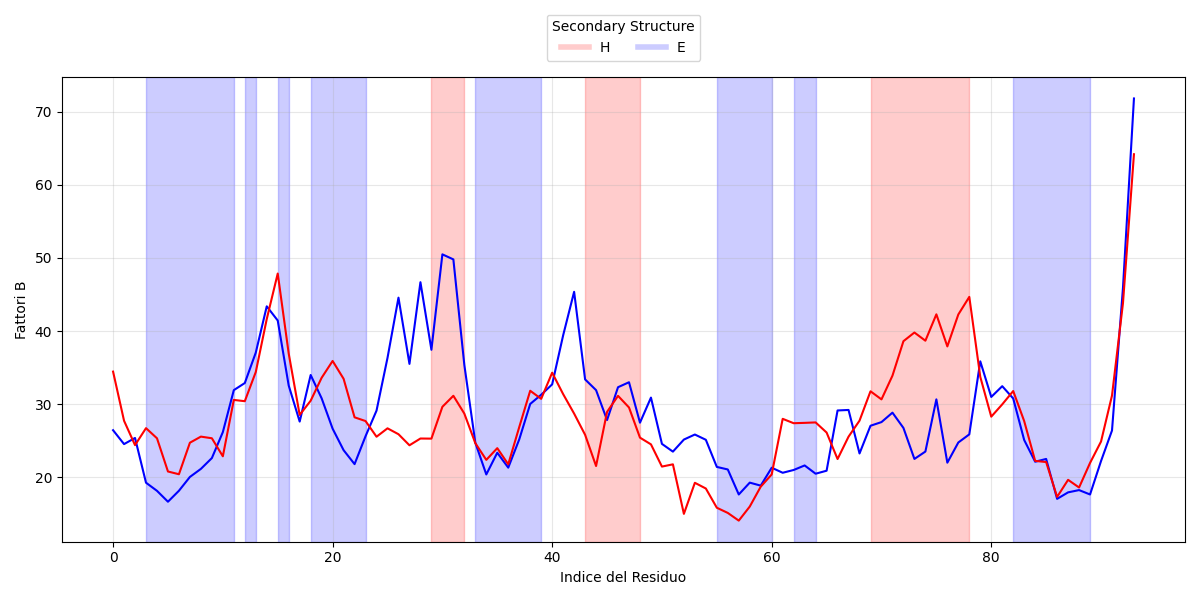
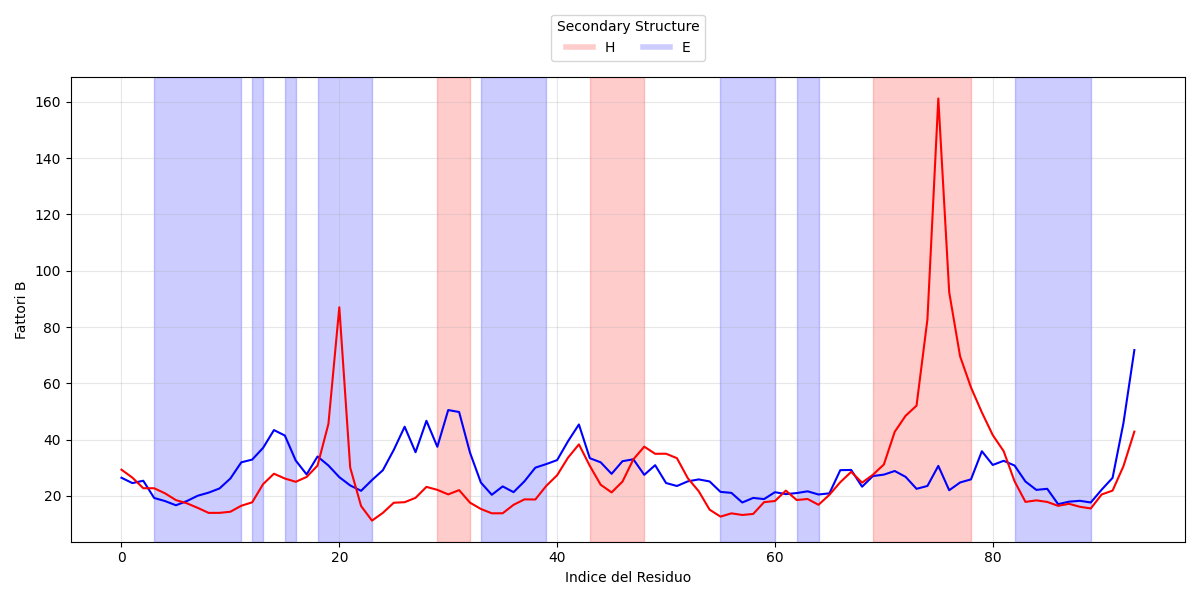
adnj

diff --git a/STATIC/Dynamic.py b/STATIC/Dynamic.py
@@ -19,22 +19,22 @@ def stochastic_process_1d(K, epsilon_0, omega, dt, T, k_b, gamma, MaxTime, N):
     epsilon= np.zeros((len(t), N))
     p=0
     for n in range(1, len(t)):
-        epsilon_t = epsilon_0 * (1 + np.cos(omega * t[n])) / 2
+        epsilon_t = epsilon_0 * (1 - np.cos(omega * t[n])) / 2
         if epsilon_t==0:
             p+=1
             print(p)
-        #if epsilon_t<=0.0001 and epsilon_t>=-0.0001:
-        #    print("periodo")
+        if epsilon_t<=0.0001 and epsilon_t>=-0.0001:
+            print("periodo")
         
 
         dH_dr = np.zeros(N)
         for i in range(N):
             dH_dr[i] = np.sum(K[i, :] * r)
             if i == 20:  # index 20 corresponds to residue 21
-                dH_dr[i] += 2 * epsilon_t * (r[20] - r[75])
+                dH_dr[i] += 2 * epsilon_t #* (r[20] - r[75])
             elif i == 75:  # index 75 corresponds to residue 76
-                dH_dr[i] -= 2 * epsilon_t * (r[20] - r[75])
-        
+                dH_dr[i] -= 2 * epsilon_t #* (r[20] - r[75])
+
         eta = np.random.normal(0, 1, N)
         r = r - dH_dr * dt + np.sqrt(2 * k_b * T * gamma * dt) * eta
         r_history[n] = r
@@ -74,7 +74,7 @@ positions = df[['X', 'Y', 'Z']].values
 # Example usage:
 N = positions.shape[0]  # number of residues
 K = kirchhoff_matrix
-epsilon_0 =0.1
+epsilon_0 =10#0.1
 omega = 2*np.pi
 dt = 0.01
 T = 1
@@ -88,7 +88,7 @@ time_avg_x_squared = calculate_time_average_x_squared(r_history)
 residue1_trajectory = r_history[:, 20]
 residue2_trajectory = r_history[:, 75]
 
-
+#epsilon=epsilon[:int(len(epsilon)*0.3)]
 # Calcola la media di ogni traiettoria
 mean1 = np.mean(epsilon)
 mean2 = np.mean(epsilon)
@@ -101,8 +101,8 @@ residue2_trajectory -= mean2
 correlation = np.zeros_like(epsilon)
 
 # Calcola la correlazione
-for i in range(len(epsilon)):
-    for j in range(len(epsilon) - i):
+for i in range(int(len(epsilon))):
+    for j in range(int(len(epsilon)) - i):
         correlation[i] += epsilon[j] * epsilon[i + j]
 
 # Normalizza la correlazione per avere valori tra -1 e 1
@@ -126,7 +126,7 @@ def compare_b_factors_with_sec_structure(actual_b_factors, predicted_b_factors, 
     predicted_b_factors_scaled = predicted_b_factors * scale_factor
 
     # Calcola il coefficiente di correlazione
-    correlation, _ = pearsonr(actual_b_factors, predicted_b_factors_scaled)
+    #correlation, _ = pearsonr(actual_b_factors, predicted_b_factors_scaled)
 
     # Calcola la deviazione quadratica media (RMSD)
     rmsd = np.sqrt(np.mean((actual_b_factors - predicted_b_factors_scaled)**2))
@@ -199,7 +199,7 @@ def compare_b_factors_with_sec_structure(actual_b_factors, predicted_b_factors, 
     # Salva la figura
     plt.savefig(f'images/{name}/dynamic/Confronto_Beta_con_Struttura_Secondaria.png')
 
-    print(f"Coefficiente di correlazione tra fattori B reali e predetti: {correlation:.4f}")
+    #print(f"Coefficiente di correlazione tra fattori B reali e predetti: {correlation:.4f}")
     print(f"Deviazione Quadratica Media (RMSD): {rmsd:.4f}")
 
     return correlation, rmsd
@@ -209,10 +209,55 @@ def compare_b_factors_with_sec_structure(actual_b_factors, predicted_b_factors, 
 correlation,rmsd=compare_b_factors_with_sec_structure(df['B-Factor'].values, time_avg_x_squared, df, stringa)
 
 
+import numpy as np
+import matplotlib.pyplot as plt
 
+# Estrai le traiettorie dei due residui
+residue1_trajectory = r_history[:, 20]
+residue2_trajectory = r_history[:, 75]
 
+# Calcola la media di ogni traiettoria
+mean1 = np.mean(residue1_trajectory)
+mean2 = np.mean(residue2_trajectory)
 
+# Sottrai la media da ogni traiettoria
+residue1_trajectory -= mean1
+residue2_trajectory -= mean2
 
+# Inizializza un array vuoto per la covarianza
+covariance = np.zeros_like(residue1_trajectory)
+
+# Calcola la covarianza
+for i in range(len(residue1_trajectory)):
+    for j in range(len(residue2_trajectory) - i):
+        covariance[i] += residue1_trajectory[j] * residue2_trajectory[i + j]
+
+# Normalizza la covarianza per avere valori tra -1 e 1
+covariance = covariance / (len(residue1_trajectory) - 1)
+
+# Crea un array di tempi
+time = np.arange(len(residue1_trajectory))
+
+# Calcola 1-cos(2*pi*t)
+cos_func = 1 - np.cos(2 * np.pi * time*dt)
+
+# Plotta la covarianza
+plt.figure(figsize=(12, 6))
+plt.plot(covariance, label='Covariance')
+
+plt.xlabel('Time Lag')
+#plt.plot(cos_func, label='1-cos(2*pi*t)')
+plt.xlabel('Time Lag')
+plt.ylabel('Value')
+plt.title('Covariance between Residue 21 and Residue 76 and 1-cos(2*pi*t)')
+plt.legend()
+plt.tight_layout()
+
+if not os.path.exists(f'images/{stringa}/dynamic/'):
+    os.makedirs(f'images/{stringa}/dynamic/')
+
+# Salva la figura
+plt.savefig(f'images/{stringa}/dynamic/Covariance.png')
 
 
 
@@ -223,7 +268,7 @@ correlation,rmsd=compare_b_factors_with_sec_structure(df['B-Factor'].values, tim
 
 # Select residues to plot, including 20 and 75
 selected_residues = [20, 75]  # You can add more if needed
-
+epsilon
 # Plot the positions of selected residues over time
 plt.figure(figsize=(12, 8))
 
@@ -240,7 +285,22 @@ if not os.path.exists(f'images/{stringa}/dynamic/'):
 
 # Save the figure
 plt.savefig(f'images/{stringa}/dynamic/Processo_stocastico.png')
+plt.figure(figsize=(12, 8))
 
+for residue in selected_residues:
+    plt.plot(t, r_history[:, residue], label=f'Residue {residue+1}')
+plt.plot(t, epsilon[:,0], label='Epsilon')  # Plot epsilon
+
+plt.xlabel('Time')
+plt.ylabel('Displacement')
+plt.title('Displacements of Selected Residues over Time (1D)')
+plt.legend()
+plt.tight_layout()
+if not os.path.exists(f'images/{stringa}/dynamic/'):
+    os.makedirs(f'images/{stringa}/dynamic/')
+
+# Save the figure
+plt.savefig(f'images/{stringa}/dynamic/Processo_stocastico_con_sengale.png')
 # Plot the t
 
 # Dopo aver creato l'istanza di GraphMatrixAnalyzer
